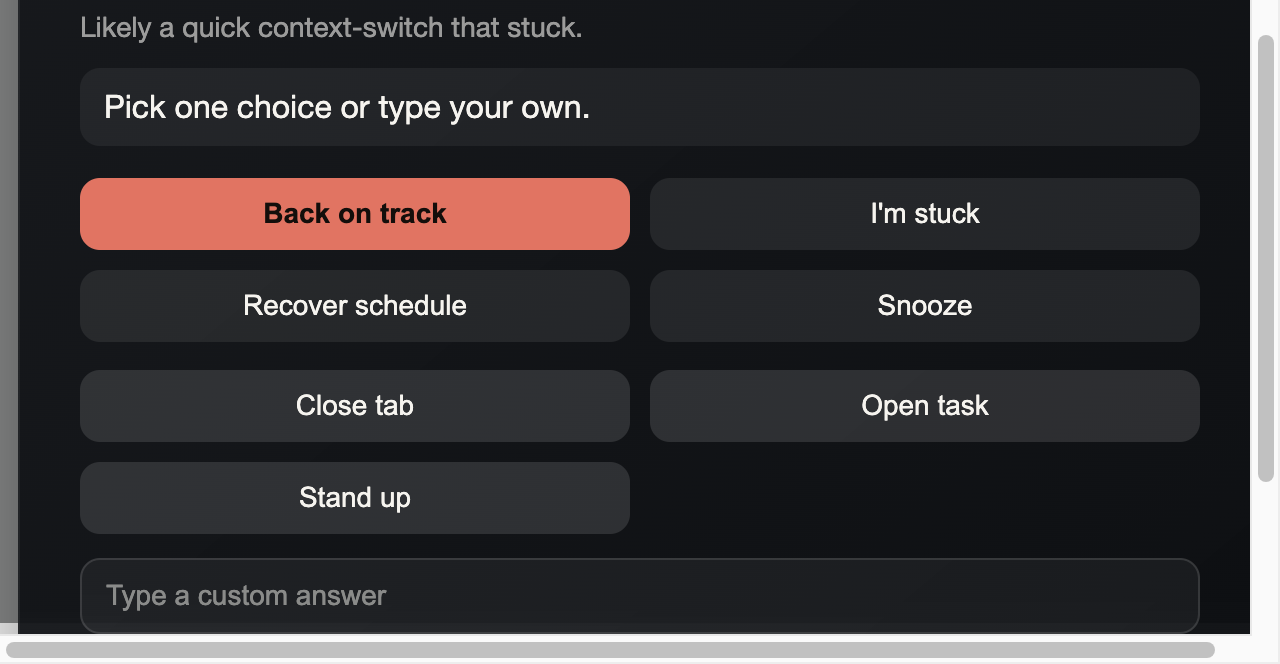
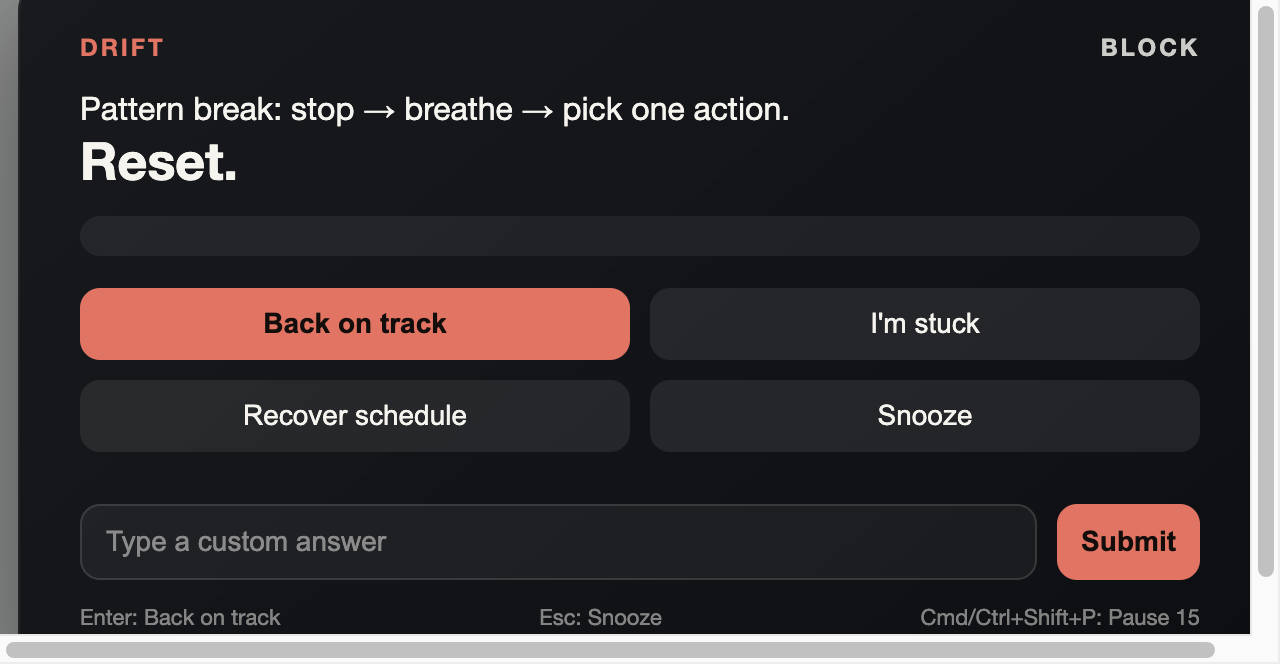
overlay: fix aria role parsing + refresh screenshots

diff --git a/overlay/overlay-utils.js b/overlay/overlay-utils.js
@@ -21,11 +21,6 @@
     if (target.isContentEditable) return true;
 
     if (tag === "input" || tag === "textarea" || tag === "select") return true;
-
-    // Some UIs use non-input elements with ARIA roles for text entry.
-    const role = String(target.getAttribute?.("role") || "").toLowerCase();
-    if (role === "textbox" || role === "combobox") return true;
-
     return false;
   }
 
